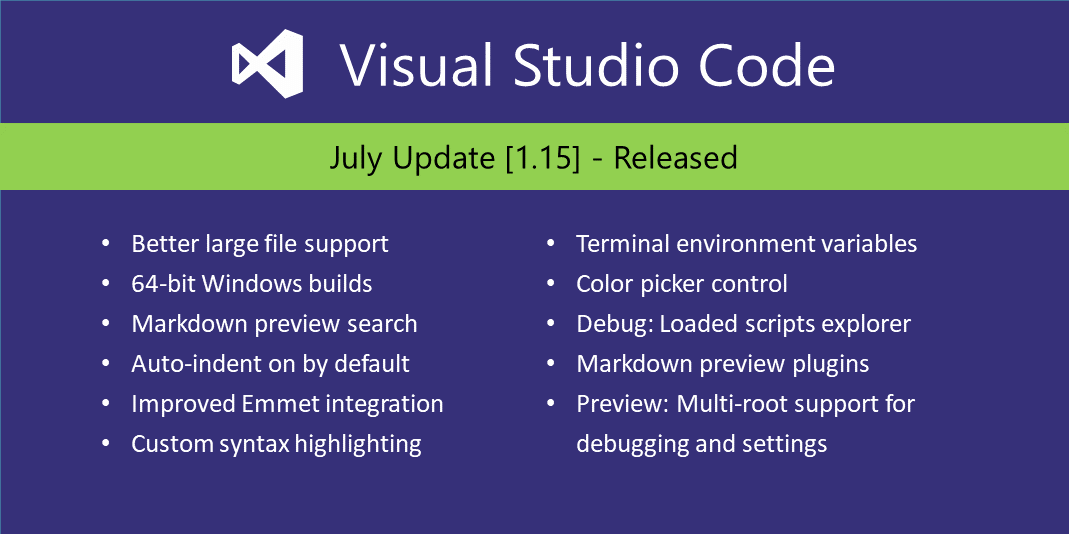
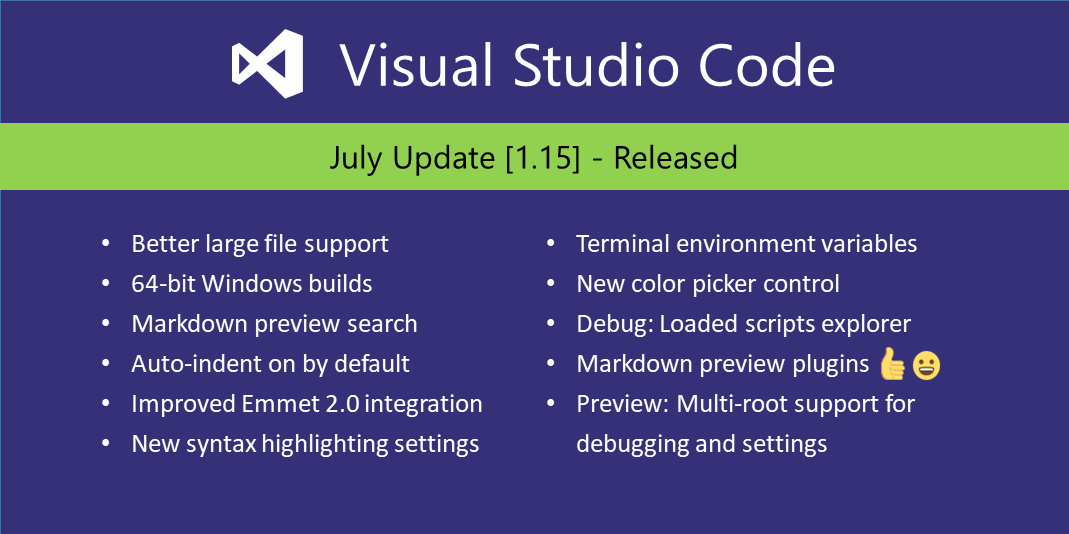
Edit pass on the Emmet 2.0 blog post

diff --git a/blogs/2017/08/07/emmet-2.0.md b/blogs/2017/08/07/emmet-2.0.md
@@ -11,48 +11,54 @@ Author: Ramya Rao
 
 August 7, 2017 Ramya Rao, [@ramyanexus](https://twitter.com/ramyanexus)
 
-A better Emmet experience, including abbreviation expansions in suggestion/auto-completion lists, multi-cursor support for most [Emmet actions](https://docs.emmet.io/actions/) and updated support for custom snippets are in store as we ship Emmet 2.0 in the July 2017 release of Visual Studio Code (version 1.15).
+In the July 2017 release of Visual Studio Code (version 1.15), we're shipping a better Emmet experience: Emmet 2.0.
+
+It's features include:
+
+* Emmet abbreviation expansions in suggestion/auto-completion lists.
+* Multi-cursor support for most [Emmet actions](https://docs.emmet.io/actions/).
+* Support for custom Emmet snippets.
 
 ![Emmet in suggestion/auto-completion list](2017_08_07_emmet.gif)
 
-With this move, we have re-written all of the Emmet actions using new npm modules from [@emmetio](http://github.com/emmetio).
+As part of this update, we have re-written all of the Emmet actions using new npm modules from [@emmetio](http://github.com/emmetio).
 
-The most important change for VS Code users is that Emmet Abbreviations will now appear in suggestion/auto-completion lists just like any other completion, and no longer have the `(kbstyle(Tab))` key as a dedicated keyboard shortcut in order to expand.
+An important change is that because Emmet abbreviations are displayed in the suggestion list, just like any other smart completion, the `kbstyle(Tab)` key is no longer used as the dedicated keyboard shortcut. This may take some getting used to but we think you'll see the benefits of Emmet sharing the same gesture as other smart completions.
 
-Read on to learn how this changes the way you use Emmet in Visual Studio Code.
+Read on to learn about the Emmet 2.0 changes in Visual Studio Code.
 
 ## New modular approach to Emmet
 
 Previously, the [Emmet library](https://github.com/emmetio/emmet) was a single monolithic codebase that was used for every [Emmet action](https://docs.emmet.io/actions/). The author of Emmet, [Sergey Chikuyonok](https://github.com/sergeche), envisioned a new world for Emmet 2.0 with smaller, re-usable modules.
 
-This was done to allow editor plugins to use the editor specific APIs for a better Emmet integration with editor features like multiple cursors and syntax detection.
+This was done to allow editor plugins to use the editor specific APIs for better Emmet integration on features like multiple cursors and syntax detection.
 
-There are now separate npm modules from [@emmetio](https://github.com/emmetio) for the different parts of the pipeline required to expand an Emmet abbreviation, including parsing an abbreviation, resolving snippets, rendering output as per syntax, and applying transformations. 
+There are now separate npm modules from [@emmetio](https://github.com/emmetio) for the different parts of the pipeline required to expand an Emmet abbreviation. These include steps such as:
+
+* Parsing an abbreviation
+* Resolving snippets
+* Rendering output as per syntax
+* Applying transformations
 
 There are also separate modules for parsing HTML and CSS documents to aid in implementing the rest of the Emmet features. You can find these modules on npm under [emmetio](https://www.npmjs.com/~emmetio).
 
 This modular approach has allowed us to:
 
-- Provide Emmet abbreviation expansions in the suggestion/auto-completion list.
-- Provide multi cursor support for most of the Emmet actions.
-- Provide more efficient parsing of documents using VS Code specific APIs for Emmet actions that need parsed files.
-- Pull the Emmet integration in VS Code from the core to an extension.
+* Provide Emmet abbreviation expansions in the suggestion/auto-completion list.
+* Provide multi cursor support for most of the Emmet actions.
+* Provide more efficient parsing of documents using VS Code specific APIs for Emmet actions that need parsed files.
+* Pull the Emmet integration out of the VS Code core and into an extension.
 
+## Replacing Tab for expanding Emmet abbreviations
 
-## Replacing use of Tab for expanding Emmet abbreviations
+There were two problematic issues with using the `kbstyle(Tab)` key as a keyboard shortcut for Emmet expansion:
 
-Many of our users had two issues with using the `kbstyle(Tab)` key as a keyboard shortcut for the **Emmet: Expand Abbreviation**:
+* Emmet expansions occurred when the user wanted to indent source code using the `kbstyle(Tab)` key.
+* Items from the suggestion list were inserted when the user wanted to expand an Emmet abbreviation.
 
-* Unexpected Emmet expansions occurring when the user wanted to just add an indent using the `kbstyle(Tab)` key.
-* Items from the suggestion list getting inserted when the user actually wanted to expand an Emmet abbreviation.
+[Sergey Chikuyonok](https://github.com/sergeche) realized that having Emmet in the suggestion list would be a more pleasant experience. That this helped solve these two issues, was an added bonus. Now that we didn't need a default keybinding for the **Emmet: ExpandAbbreviation** command (command Id `editor.action.emmet.expandAbbreviation`), the `kbstyle(Tab)` key was freed to do what it was meant to: indent.
 
-[Sergey Chikuyonok](https://github.com/sergeche) realized that having Emmet show up in the suggestion list would be a much more pleasant experience. 
-
-The fact that this helped us solve both the above issues is an added bonus because the conflict between Emmet and the suggestion list is indeed best resolved by having Emmet show up in the suggestion list. 
-
-With this move, the default keybinding of the `kbstyle(Tab)` key with the `editor.action.emmet.expandAbbreviation` is removed and the `kbstyle(Tab)` key is free to do what it was meant to do i.e add an indent.
-
-If you have `editor.quickSuggestions` turned off then you will have to press `kb(editor.action.triggerSuggest)` to trigger the suggestion/auto-completion list manually.
+If you have the `editor.quickSuggestions` [setting](/docs/getstarted/settings.md) turned off, you will have to press `kb(editor.action.triggerSuggest)` to trigger the suggestion/auto-completion list manually.
 
 If you don't want Emmet showing up in the suggestion/auto-completion list, set `emmet.showExpandedAbbreviation` to `never`.
 
@@ -60,15 +66,15 @@ You can still bind any keyboard shortcut (other than `kbstyle(Tab)` key) to the 
 
 ## Emmet suggestions in other file types
 
-In Emmet 2.0, the commands **Emmet: Expand Abbreviation** and **Emmet: Wrap with Abbreviation** will expand HTML abbreviations on all file types. No configuration or setting update needed.
+In Emmet 2.0, the commands **Emmet: Expand Abbreviation** and **Emmet: Wrap with Abbreviation** will expand HTML abbreviations on all file types. No configuration or settings update is needed.
 
-If you are working on any of the default Emmet-enabled file types (`html`, `haml`, `jade`, `slim`, `jsx`, `xml`, `xsl`, `css`, `scss`, `sass`, `less` and `stylus`), you will see Emmet abbreviation expansions in the suggestion/auto-completion list as you type or when you manually trigger auto-completion.
+If you are working on any of the default Emmet-enabled file types (`html`, `haml`, `jade`, `slim`, `jsx`, `xml`, `xsl`, `css`, `scss`, `sass`, `less` and `stylus`), you will see Emmet abbreviations in the suggestion/auto-completion list as you type or when you manually trigger auto-completion.
 
 To get Emmet suggestions in a file type that is not enabled for Emmet by default, use the [setting](/docs/getstarted/settings.md) `emmet.includeLanguages`.
 
 Read more on this new setting in the section on [Emmet Configuration](#emmet-configuration).
 
-> Note: You might have used `emmet.syntaxProfiles` previously to map new file types. Please use the new setting `emmet.includeLanguages` from VS Code 1.15 onwards instead. The `emmet.syntaxProfiles` should be used solely for customizing the final output.
+> Note: If you used used `emmet.syntaxProfiles` to map new file types, you should use the new setting `emmet.includeLanguages` instead. `emmet.syntaxProfiles` should only be used for customizing the final output.
 
 ## Using custom Emmet snippets
 
@@ -97,21 +103,19 @@ Keep in mind that in Emmet 2.0, there are some restrictions on the snippet name 
 
 Values for HTML Emmet snippets should be a valid abbreviation.
 
-Say you want an unordered list with a list item. Your snippet should be `ul>li` and not `<ul><li></li></ul>`.
+For example, if you want an unordered list with a list item, your snippet should be `ul>li` and not `<ul><li></li></ul>`.
 
-These custom snippets are applicable to all other markup flavors like `haml` or `jade`. Therefore the snippet value has to be an abbreviation and not actual HTML, so that appropriate transformations can be applied to get the right output as per the language type.
+Custom snippets are applicable to all other markup flavors like `haml` or `jade`. When snippet value is an abbreviation and not actual HTML, the appropriate transformations can be applied to get the right output as per the language type.
 
 ### CSS Emmet snippets
 
 Values for CSS Emmet snippets should either be a property value or the complete property value pair.
 
-Make sure that the name of the snippet contains the letters from the snippet value, so that fuzzy matching algorithms can make the right match in the suggestion list.
+Also make sure that the name of the snippet contains the letters from the snippet value, so that the fuzzy matching algorithm of the suggestion list can make the right match. If you don't use similar letters, the **Emmet: Expand Abbreviation** command will still work, but the snippets won't show up as expected in a filtered suggestion list.
 
-If you don't, then the **Emmet: Expand Abbreviation** command will still work. But, these snippets won't show up in the suggestion list which relies on the fuzzy matching to filter out suggestions.
+CSS custom snippets are applicable to all other stylesheet flavors like `scss`, `less` or `sass`. Therefore, don't include a trailing `;` at the end of the snippet value. Emmet will add it as needed based on the whether the language requires it.
 
-These custom snippets are applicable to all other stylesheet flavors like `scss`, `less` or `sass`. Therefore, don't include a trailing `;` at the end of the snippet value. Emmet will add it as needed based on the whether the language requires it.
-
-> Note: After making changes to the `snippets.json` file, remember to reload VS Code for it to take effect.
+>Note: After making changes to the `snippets.json` file, remember to reload VS Code for it to take effect.
 
 ## Emmet configuration
 
@@ -179,7 +183,7 @@ Below are Emmet [settings](/docs/getstarted/settings.md) that you can use to cus
 
    Provide the location of the directory that houses the `snippets.json` file which in turn has your custom snippets.
 
-## Deprecated Emmet Settings
+## Deprecated Emmet settings
 
 Setting | Reason for deprecation
 -------- | ------------------------
@@ -188,20 +192,18 @@ Setting | Reason for deprecation
 
 ## People who made Emmet 2.0 happen
 
-I want to thank [Sergey Chikuyonok](https://github.com/sergeche) for his amazing work on modularizing Emmet and helping us bring these improvements to VS Code.  
+I want to thank [Sergey Chikuyonok](https://github.com/sergeche) for his amazing work on modularizing Emmet and helping us bring these improvements to VS Code.
 
-Thanks to everyone who used the new Emmet in VS Code when it was in preview and provided feedback through GitHub issues.
+Thanks also goes to everyone who used the new Emmet in VS Code when it was in preview and provided great feedback through GitHub issues.
 
-Special thanks to [Steve Lombardi](https://github.com/smlombardi), [Jens Hausdorf](https://github.com/jens1o), [Vladimir Sizikov](https://github.com/vvs), [Niichie](https://github.com/Niichie), [Thomas Klepzig](https://github.com/tklepzig) and many more who were using VS Code Insiders testing each of my bug fixes and feature additions. A lot of discussions on Github issues with them has lead to the current user experience.
+Special thanks to [Steve Lombardi](https://github.com/smlombardi), [Jens Hausdorf](https://github.com/jens1o), [Vladimir Sizikov](https://github.com/vvs), [Niichie](https://github.com/Niichie), [Thomas Klepzig](https://github.com/tklepzig) and many more who used the VS Code Insiders builds to test my bug fixes and feature additions. The discussions in Github issues were very helpful in getting to the current user experience.
 
 ## Share your thoughts on the new Emmet
 
-Do you miss any of the features from the old Emmet? Having trouble using the new Emmet? Feel free to create an GitHub [issue](https://github.com/Microsoft/vscode/issues) and we will try our best to help you out.
+Do you miss any features of the old Emmet? Having trouble using the new Emmet? Feel free to create an GitHub [issue](https://github.com/Microsoft/vscode/issues) and we will do our best to help you out.
 
-Also, it is easier than ever to contribute to the Emmet integration in VS Code as it is now an extension. The [emmet folder in VS Code](https://github.com/Microsoft/vscode/tree/master/extensions/emmet) is where all the code you need to get started lives.
+It is also easier than ever to contribute to Emmet in VS Code as it is now an extension. The [emmet folder] (https://github.com/Microsoft/vscode/tree/master/extensions/emmet) in the VS Code GitHub repo has all the source code you need to get started.
 
 Happy Coding!
 
 Ramya Rao, VS Code Team member [@ramyanexus](https://twitter.com/ramyanexus)
-
-

diff --git a/release-notes/v1_15.md b/release-notes/v1_15.md
@@ -14,10 +14,10 @@ Welcome to the July 2017 release of Visual Studio Code. There are a number of si
 * **[Find in Markdown preview](#search-in-markdown-preview)** - Full search for Release Notes, Markdown preview, and Extensions.
 * **[Auto-indent, Emmet 2.0 on by default](#auto-indentation)** - Source code auto-indenting and new Emmet support.
 * **[Custom syntax highlighting](#user-definable-syntax-highlighting-colors)** - Easily adjust editor colors to your liking.
-* **[Terminal environment variables](#configure-environment-of-terminal-sessions)** - Preconfigure the Integrated Terminal environment. 
+* **[Terminal environment variables](#configure-environment-of-terminal-sessions)** - Preconfigure the Integrated Terminal environment.
 * **[Color picker UI](#color-picker)** - Quickly create colors in your CSS, SASS, and Less files.
 * **[Loaded Scripts Explorer](#loaded-scripts-explorer)** - Easily review and step through loaded scripts during Node.js debugging.
-* **[Markdown preview plugins](#support-for-markdown-preview-plugins)** - Add styles, scripts or plug-ins to Markdown previews. 
+* **[Markdown preview plugins](#support-for-markdown-preview-plugins)** - Add styles, scripts or plug-ins to Markdown previews.
 * **[code.visualstudio.com updates](#new-documentation)** - Tutorials for React, Angular and deploying Node.js to Azure.
 * **[Preview: Multi-root workspaces](#preview-multi-root-workspaces)** - Settings and debug configurations across multiple projects (Insiders build).
 
@@ -64,7 +64,7 @@ Now that Emmet abbreviations are displayed in the suggestion/auto-completion lis
 * Unexpected Emmet expansions occurring when the user wanted to just add an indent using the `kbstyle(Tab)` key.
 * Items from the suggestion list getting inserted when the user actually wanted to expand an Emmet abbreviation.
 
-You can still bind any keyboard shortcut (other than `kbstyle(Tab)` key) to the `editor.action.emmet.expandAbbreviation` command or use **Emmet: Expand Abbrevation** from the **Command Palette**.
+You can still bind any keyboard shortcut (other than `kbstyle(Tab)` key) to the `editor.action.emmet.expandAbbreviation` command or use **Emmet: Expand Abbreviation** from the **Command Palette**.
 
 #### Custom Emmet Snippets
 
@@ -319,7 +319,7 @@ The Markdown preview now blocks HTTP images by default. A popup is shown in the 
 
 ![Changing the markdown preview's security settings](images/1_15/markdown-security.gif)
 
-You can find more information about the new markdown preview security levels [in the VS Code markdown docs](https://code.visualstudio.com/docs/languages/markdown#markdown-preview-security)
+You can find more information about the new Markdown preview security levels in the VS Code [Markdown documentation](https://code.visualstudio.com/docs/languages/markdown#_markdown-preview-security).
 
 ## Extension Authoring
 
@@ -436,7 +436,7 @@ value = configuration.get('enable'); // value is `true`
 
 >**Note:** Multi-root functionality is only available in the Insiders build until we are confident enough that we can make it available in Stable. To try it out, grab our Insiders build from [https://code.visualstudio.com/insiders](https://code.visualstudio.com/insiders).
 
-We continued working on support for opening multiple folders in a single VS Code window (instance) ([issue #396](https://github.com/Microsoft/vscode/issues/396)). There was a preview of this feature in our last release (see [1.14.0 release notes](https://code.visualstudio.com/updates/v1_14#_preview-multi-root-workspaces)). 
+We continued working on support for opening multiple folders in a single VS Code window (instance) ([issue #396](https://github.com/Microsoft/vscode/issues/396)). There was a preview of this feature in our last release (see [1.14.0 release notes](https://code.visualstudio.com/updates/v1_14#_preview-multi-root-workspaces)).
 
 During this sprint, we focused on making multi-root workspaces a first class concept.
 

diff --git a/docs/languages/markdown.md b/docs/languages/markdown.md
@@ -80,30 +80,35 @@ Use **File** > **Preferences** > **Settings** to bring up the workspace `setting
 }
 ```
 
-## Markdown Preview Security
+## Markdown preview security
 
-For security reasons, VS Code restricts the content displayed in the markdown preview. This includes disabling script execution and only allowing resources to be loaded over https.
+For security reasons, VS Code restricts the content displayed in the Markdown preview. This includes disabling script execution and only allowing resources to be loaded over `https`.
 
-When the markdown preview blocks content on a page, an alert popup is shown in the top right corner of the preview window:
+When the Markdown preview blocks content on a page, an alert popup is shown in the top right corner of the preview window:
 
-![](images/Markdown/security-alert.png)
+![markdown security alert](images/Markdown/security-alert.png)
 
-You can change what content is allowed in the markdown preview by clicking on this popup or running the `Markdown: Change preview security settings` command in any markdown file:
+You can change what content is allowed in the Markdown preview by clicking on this popup or running the **Markdown: Change preview security settings** command in any Markdown file:
 
-![](images/Markdown/security-selector.png)
+![markdown security selector](images/Markdown/security-selector.png)
 
-The markdown preview security settings apply to all files in the workspace. Here's more information about each of these security levels:
+The Markdown preview security settings apply to all files in the workspace.
+
+Here are the details about each of these security levels:
 
 ### Strict
-This is the default setting. Only loads trusted content and disables script execution. Blocks http images and all SVG images not from one of our [trusted badge providers](/docs/extensionAPI/extension-manifest.md#approved-badges).
+
+This is the default setting. Only loads trusted content and disables script execution. Blocks `http` images and all SVG images not from one of our [trusted badge providers](/docs/extensionAPI/extension-manifest.md#approved-badges).
 
 It is strongly recommended that you keep `Strict` security enabled unless you have a very good reason to change it AND you trust all markdown files in the workspace.
 
 ### Allow insecure content
-Keeps scripts disabled but allows content to be loaded over http. Also enables SVG images.
+
+Keeps scripts disabled but allows content to be loaded over `http`. Also enables SVG images.
 
 ### Disable
-Disables additional security in the preview window. This allows script execution and also allows content to be loaded over http.
+
+Disables additional security in the preview window. This allows script execution and also allows content to be loaded over `http`.
 
 ## Snippets for Markdown
 
